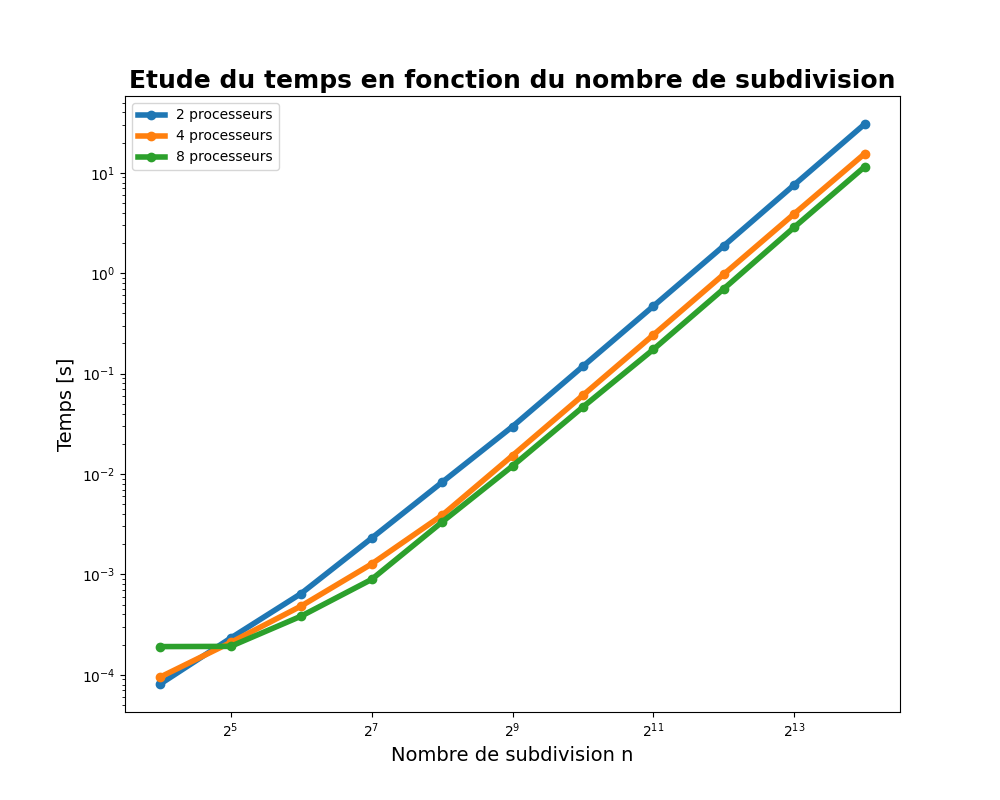
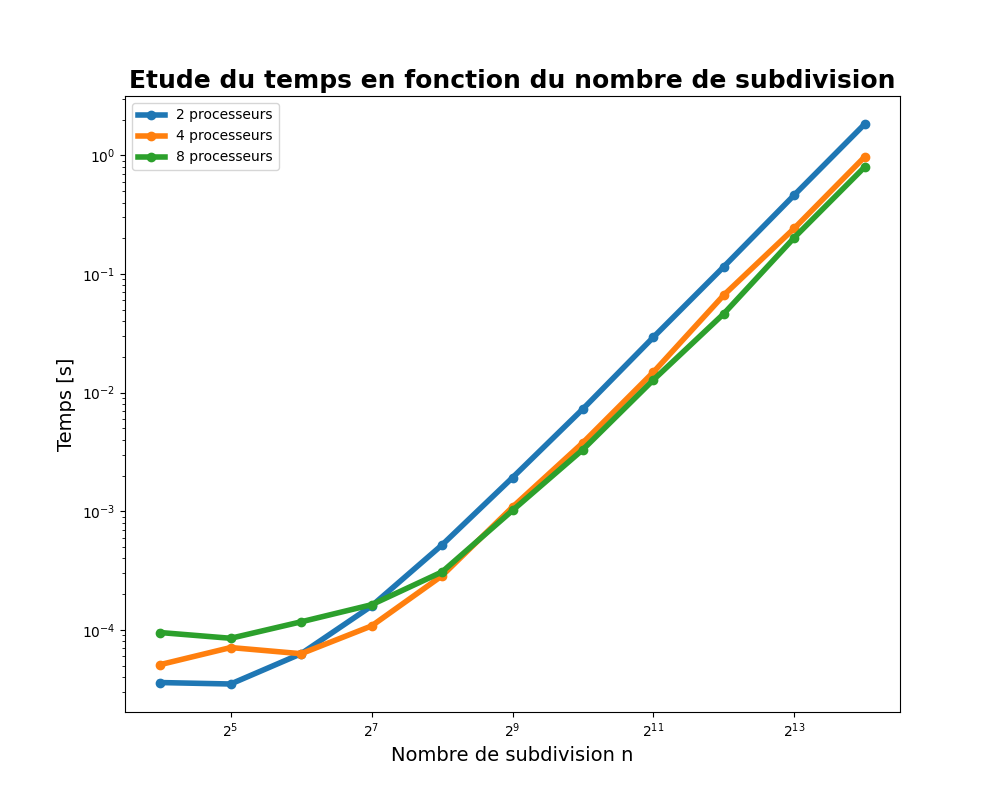
Push results + modif Gauss

diff --git a/OpenMP/gauss2DOpenMP.cpp b/OpenMP/gauss2DOpenMP.cpp
@@ -21,37 +21,17 @@ double f3(double x, double y){
     return x*y*cos(x)*sin(2*y);
 }
 
-void computeGauss2DPointsWeights(MatrixXd& points, MatrixXd& weights, int numPoints) {
-
-    #pragma omp parallel for collapse(2)
-    for (int i = 0; i < numPoints; ++i) {
-        for (int j = 0; j < numPoints; ++j) {
-            double xi = -1.0 + 2.0 * (i + 0.5) / numPoints;
-            double eta = -1.0 + 2.0 * (j + 0.5) / numPoints;
-            double wi = 2.0 / numPoints;
-
-                points(i, 0) = xi;
-                points(j, 1) = eta;
-                weights(i) = wi;
-        }
-    }
-}
-
-
-
 double gauss2DIntegration(double a1, double b1, double a2, double b2, int numPoints, double (*func)(double,double)) {
-    MatrixXd points(numPoints, 2);
-    MatrixXd weights(numPoints, 1);
-
-    computeGauss2DPointsWeights(points, weights, numPoints);
 
     double result = 0.0;
-
-    #pragma omp parallel for reduction(+:result) collapse(2)
+    double weights = 2.0 / numPoints;
+    #pragma omp parallel for reduction(+:result)
     for (int i = 0; i < numPoints; ++i) {
+        // double xi = -1.0 + 2.0 * (double(i) + 0.5) / numPoints;
         for (int j = 0; j < numPoints; ++j) {
-            result += weights(i) * weights(j) * func((points(i, 0) + 1) / 2.0 * (b1 - a1) + a1,
-                                                   (points(j, 1) + 1) / 2.0 * (b2 - a2) + a2);
+            // double xj = -1.0 + 2.0 * (double(j) + 0.5) / numPoints;
+            result += weights * weights * func(((-1.0 + 2.0 * (double(i) + 0.5) / numPoints) + 1) / 2.0 * (b1 - a1) + a1,
+                                                   ((-1.0 + 2.0 * (double(j) + 0.5) / numPoints) + 1) / 2.0 * (b2 - a2) + a2);
         }
     }
 
